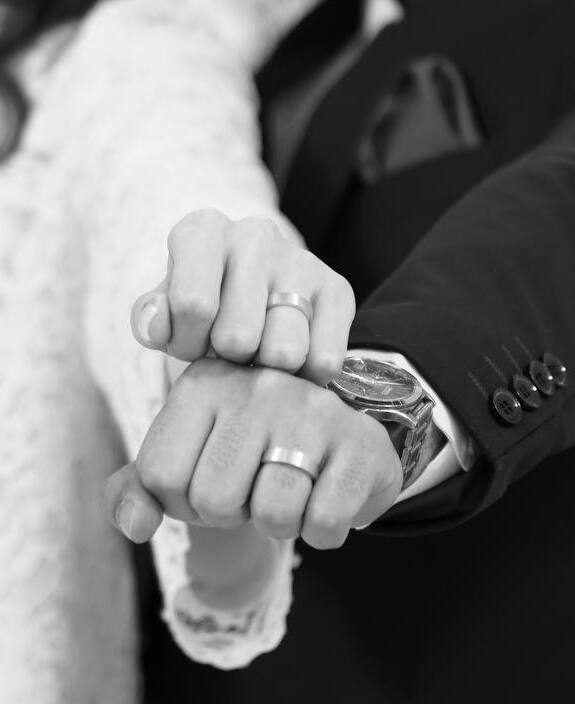
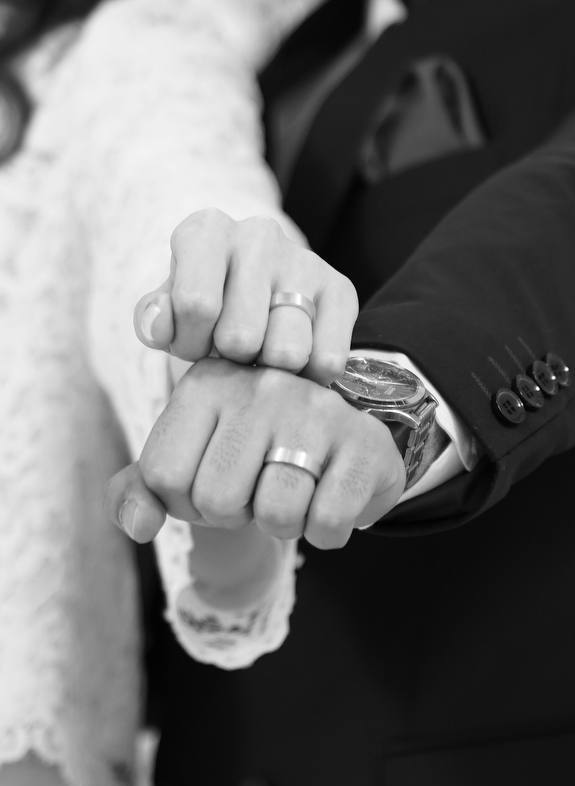
feat: peom

diff --git a/src/components/Invitation-text.vue b/src/components/Invitation-text.vue
@@ -44,19 +44,21 @@
 .invitation-article {
 
 
-  background: #f1e9de;
-  padding: 30px;
+  // background: #f1e9de;
+  // padding: 30px;
   position: relative;
   direction: rtl;
   width: 100%;
+  max-width: 800px;
   font-family: "Noto Nastaliq Urdu",
   serif;
   position: relative;
-  color: #585045;
-  box-shadow: -5px 12px 41px -4px rgba(0, 0, 0, 0.61);
-  -webkit-box-shadow: -5px 12px 41px -4px rgba(0, 0, 0, 0.61);
-  -moz-box-shadow: -5px 12px 41px -4px rgba(0, 0, 0, 0.61);
-  font-size: 18px;
+  color: #b0a08a;
+  font-size: 22px;
+  // box-shadow: -5px 12px 41px -4px rgba(0, 0, 0, 0.61);
+  // -webkit-box-shadow: -5px 12px 41px -4px rgba(0, 0, 0, 0.61);
+  // -moz-box-shadow: -5px 12px 41px -4px rgba(0, 0, 0, 0.61);
+  // font-size: 18px;
 
   p {
     margin-bottom: 5px;
@@ -87,15 +89,15 @@
 
 }
 
-.invitation-article::after {
-  content: "";
-  position: absolute;
-  // top: 100%;
-  height: 40px;
-  width: 100%;
-  left: 0;
-  bottom: -35px;
-  background: url(../assets/img/invitation-container.svg) bottom;
-  background-size: 200%;
-}
+// .invitation-article::after {
+//   content: "";
+//   position: absolute;
+//   // top: 100%;
+//   height: 40px;
+//   width: 100%;
+//   left: 0;
+//   bottom: -35px;
+//   background: url(../assets/img/invitation-container.svg) bottom;
+//   background-size: 200%;
+// }
 </style>

diff --git a/src/components/MainHero.vue b/src/components/MainHero.vue
@@ -138,12 +138,18 @@
   // width: 320px;
 
   // min-height: 40vh;
-  max-height: 90vh;
+  // max-height: 90vh;
   margin-bottom: 20px;
+  position: relative;
+  display: flex;
+  align-items: center;
+  justify-content: center;
 
   >img {
     width: 100%;
     height: 100%;
+    object-fit: cover;
+    max-height: 90vh;
   }
 
   @media (max-width: 996px) {
@@ -157,29 +163,28 @@
 
   .info {
     position: absolute;
-    bottom: 30%;
+    bottom: 20%;
     color: white;
     display: flex;
     align-items: center;
     justify-content: center;
     flex-direction: column;
+    z-index: 6;
   }
 
   .names {
     font-family: "Love Light", cursive;
 
     font-weight: 500;
-    font-size: 70px;
+    font-size: 100px;
     height: 75px;
 
-    @media (max-width: 500px) {
-      margin-bottom: 5px;
-      font-size: 60px;
+    @media (max-width: 700px) {
+      font-size: 70px;
+
     }
-    @media (max-width: 450px) {
-      margin-bottom: 5px;
-      font-size: 50px;
-    }
+
+
 
   }
 
@@ -187,8 +192,16 @@
     display: flex;
     gap: 10px;
     font-family: "Comme", sans-serif;
-    font-size: 14px;
+    font-size: 25px;
     font-weight: 500;
+    margin-top: 50px;
+
+
+    @media (max-width: 700px) {
+      font-size: 18px;
+
+    }
+
   }
 
 

diff --git a/src/pages/IndexPage.vue b/src/pages/IndexPage.vue
@@ -13,7 +13,7 @@
         the wedding time
       </div> -->
     <InvitationText />
-    <PoemSection image="test3-1.jpg" :texts="peom" />
+    <PoemSection image="test3-2.jpg" :texts="peom" />
     <TimeLineSection />
     <CountDownSection />
     <AddressSection />

diff --git a/src/components/PoemSection.vue b/src/components/PoemSection.vue
@@ -1,6 +1,6 @@
 <template>
   <div class="poem">
-    <q-parallax :height="600" :speed="0.5">
+    <q-parallax :height="550" :speed="0.5">
       <template v-slot:media>
         <img class="peom__img" :src="imgSrc">
       </template>
